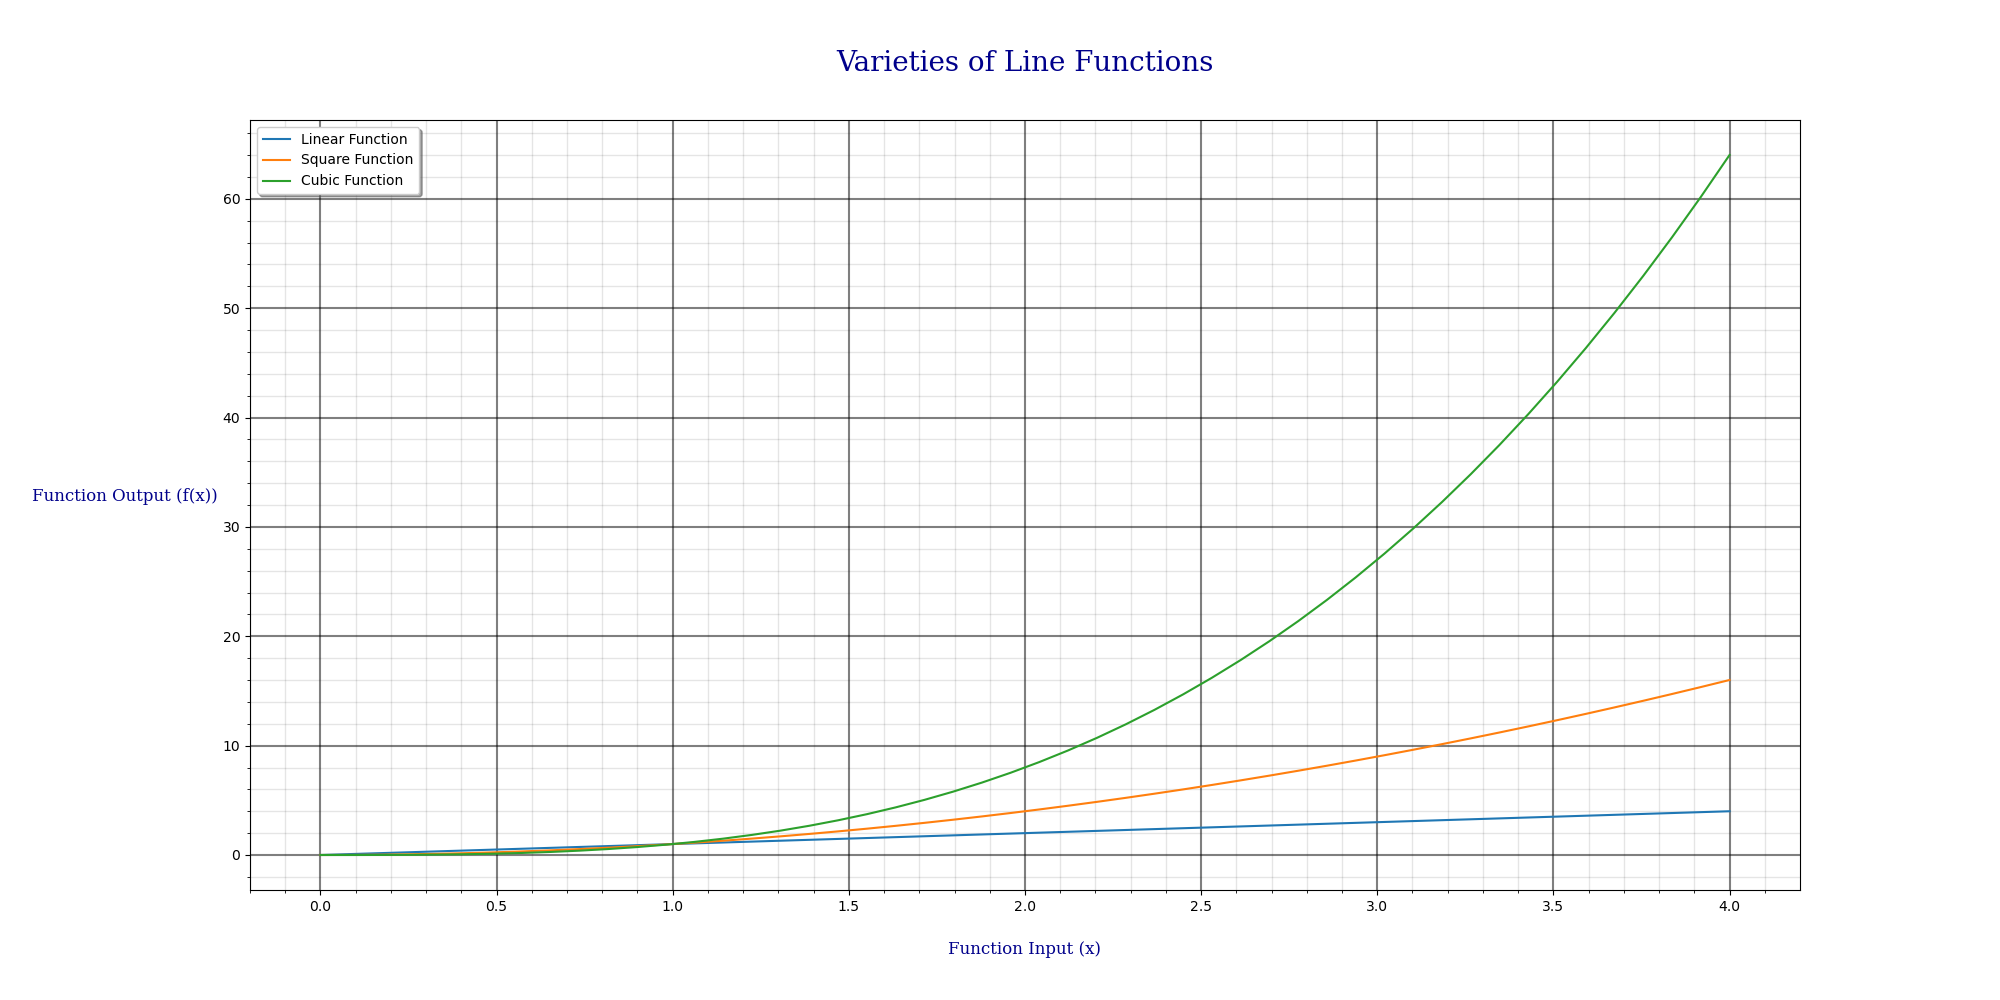
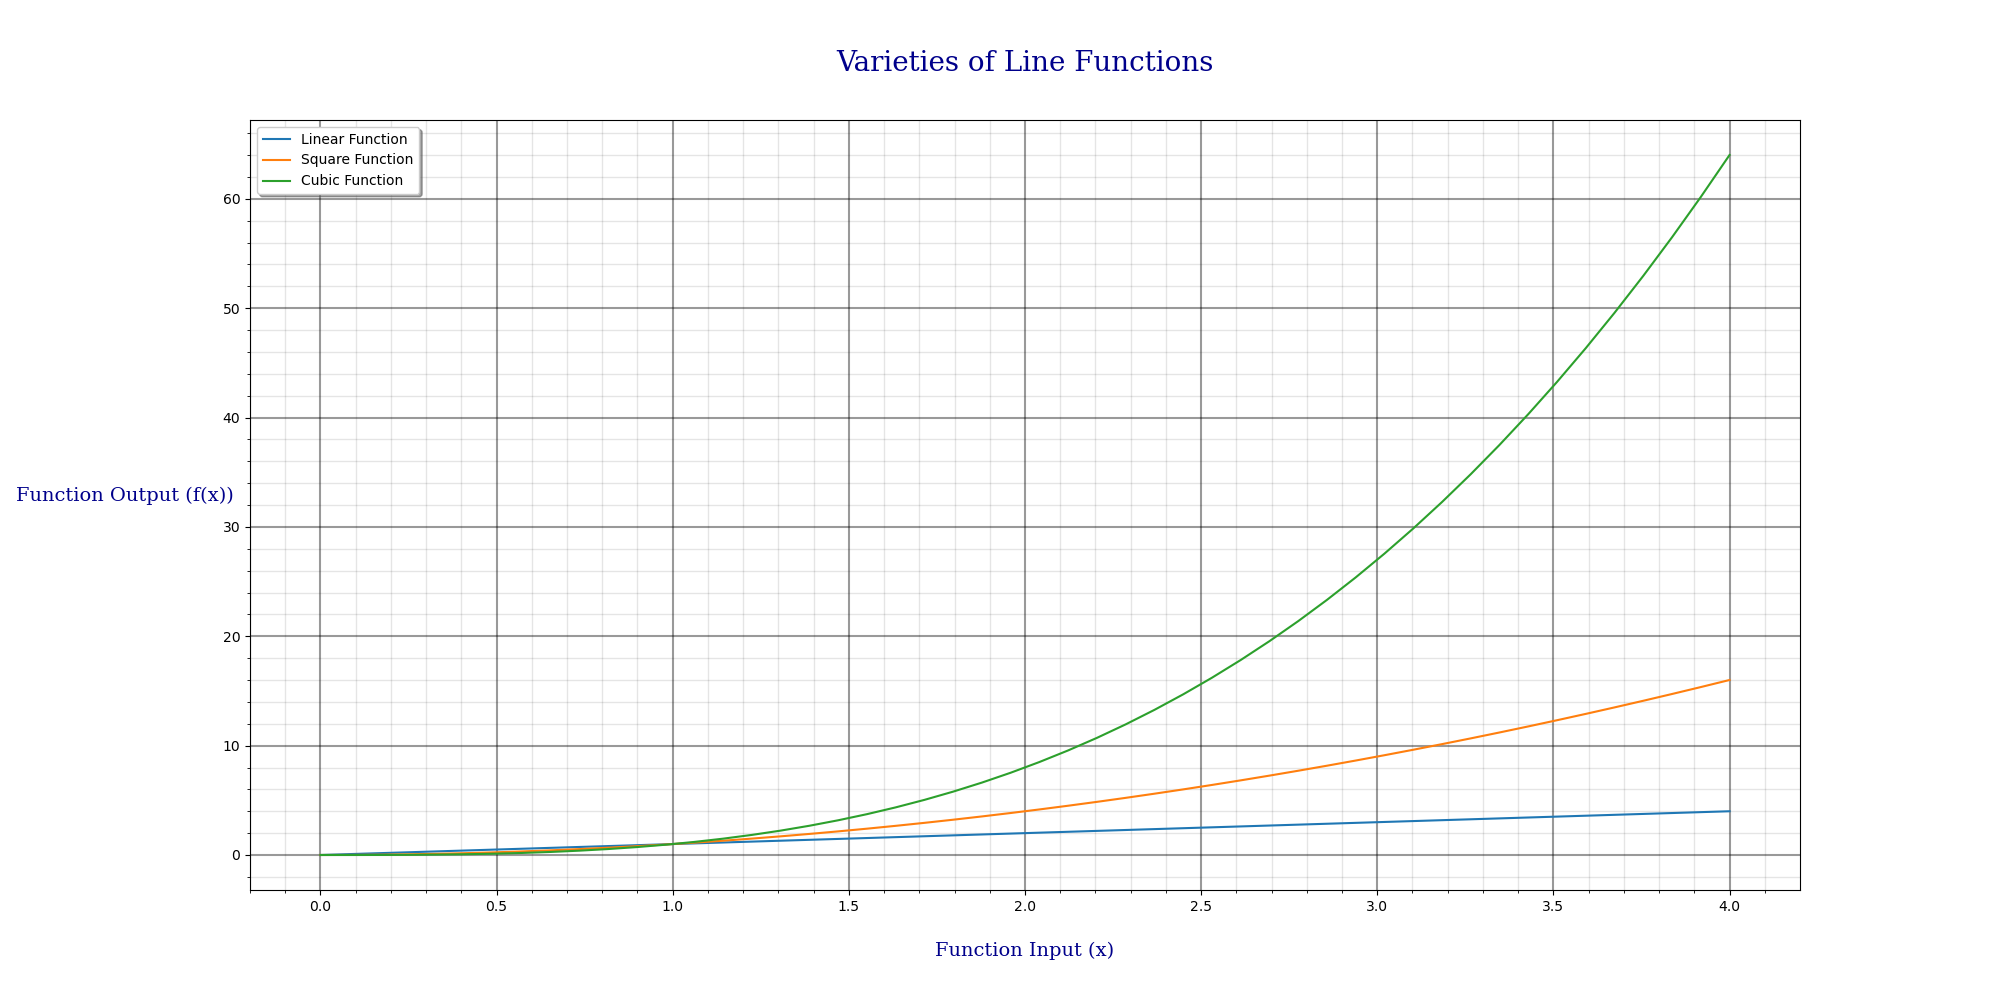
updating figure

Changed region(s): [[0.031, 0.465, 0.124, 0.527], [0.465, 0.93, 0.558, 0.961]]

diff --git a/plottask.py b/plottask.py
@@ -32,7 +32,7 @@ plt.plot(xpoints, hofx, label = 'Cubic Function')
 # Two fonts are defined within dictionaries and set to variables. 
 # This sets the font family which will be used, the colour of the text and the size of the text.
 font1 = {'family':'serif','color':'darkblue','size': 20}
-font2 = {'family':'serif','color':'darkblue','size': 12}
+font2 = {'family':'serif','color':'darkblue','size': 14}
 
 # The plot title and axis labels are created using the .title(), .xlabel() and .ylabel() functions.
 # The title/label text is passed as a string to the first argument of the functions.
@@ -67,7 +67,7 @@ plt.minorticks_on()
 # 'lw' allows me to specify line weight. I made the major gridlines thicker than the minor gridlines. 
 # 'color' allows me to specify colour. I set both to be black to make the plot uniform and make sure the gridlines were not distracting. 
 # 'alpha' allows me to set how visible the line is on a scale from 0 to 1. The minor gridlines are more faded than the major gridlines. 
-plt.grid(which = 'major', lw = 1.5, color = 'black', alpha = 0.5)
+plt.grid(which = 'major', lw = 1.5, color = 'black', alpha = 0.4)
 plt.grid(which = 'minor', lw = 1.0, color = 'black', alpha = 0.1)
 
 # The plt.show() function allows the plot to appear on screen according to all of the specifications given in the code previously. 
